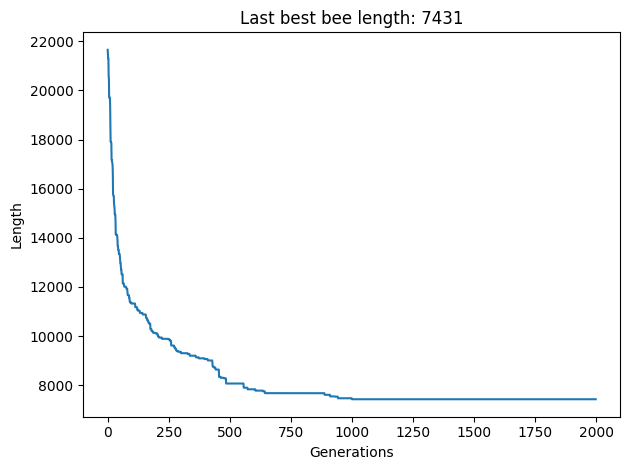
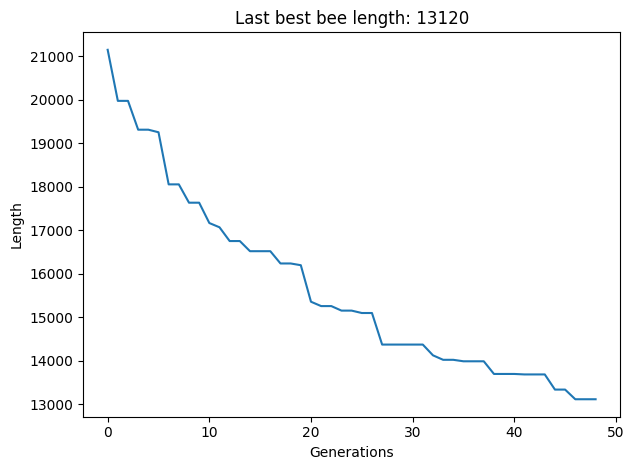
privated class attributes

diff --git a/Path.py b/Path.py
@@ -13,47 +13,46 @@ def distanceCalculus(coord1, coord2):
 
 class Path:
     def __init__(self):
-        self.order = []
-        self.length = 0
+        self._order = []
+        self._length = 0
 
     def getLength(self):
-        return self.length
+        return self._length
 
     def getOrder(self):
-        return self.order
+        return self._order
 
     def setOrder(self, fList):
-        self.order = fList
+        self._order = fList
 
     # Adds flower object to order list
     def addFlower(self, flower):
-        self.order.append(flower)
+        self._order.append(flower)
+
+    # Calculates fitness
+    def calculateFitness(self):
+        total = 0
+        starting_point = (500, 500)
+        if len(self._order) != 0:
+            total += distanceCalculus(starting_point, self._order[0].getCoordinates())
+        for i in range(len(self._order)):
+            if i != len(self._order) - 1:
+                total += distanceCalculus(self._order[i].getCoordinates(), self._order[i + 1].getCoordinates())
+        self._length = total
 
     # Printing methods
     def printPath(self):
         print("\nPath:")
-        for flower in self.order:
+        for flower in self._order:
             flower.printFlower()
         self.printFitness()
 
     def printFitness(self):
         print("Fitness : ", self.getLength())
 
-    # Calculates fitness
-    def calculateFitness(self):
-        total = 0
-        starting_point = (500, 500)
-        if len(self.order) != 0:
-            total += distanceCalculus(starting_point, self.order[0].getCoordinates())
-        for i in range(len(self.order)):
-            if i != len(self.order) - 1:
-                total += distanceCalculus(self.order[i].getCoordinates(), self.order[i + 1].getCoordinates())
-        self.length = total
-
     def printIndex(self):
         indexList = []
-        order = self.getOrder()
-        for flower in order:
+        for flower in self._order:
             index = flower.getIndex()
             indexList.append(index)
         return indexList

diff --git a/main.py b/main.py
@@ -5,7 +5,7 @@ import Path
 import graphPrinting
 
 POPULATION_COUNT = 100
-GENERATION_COUNT_MAX = 2000
+GENERATION_COUNT_MAX = 50
 STARTING_POS = (500, 500)
 FLOWERS_NUMBER = 50
 MUTATION_RATE = 0.05
@@ -81,6 +81,7 @@ def removeDuplicate(cross):
     indexList.sort(reverse=True)
     for j in indexList:
         order.pop(j)
+    cross.setOrder(order)
     return cross
 
 
@@ -137,6 +138,7 @@ def flowersSwitch(individual):
         path.pop(pos2)
     path.insert(pos1, second_flower)
     path.insert(pos2, first_flower)
+    individual.setOrder(path)
     return individual
 
 
@@ -145,7 +147,6 @@ def mutation(population):
     for i in range(20, POPULATION_COUNT - 2):
         individual = population[i]
         population[i] = flowersSwitch(individual)
-
     return population
 
 

diff --git a/Flower.py b/Flower.py
@@ -1,14 +1,14 @@
 class Flower:
     def __init__(self, x, y, index):
-        self.x = x
-        self.y = y
-        self.index = index
+        self._x = x
+        self._y = y
+        self._index = index
 
     def getCoordinates(self):
-        return self.x, self.y
+        return self._x, self._y
 
     def getIndex(self):
-        return self.index
+        return self._index
 
     def printFlower(self):
         print("Flower", self.index, ": (", self.x, ",", self.y, ")")
